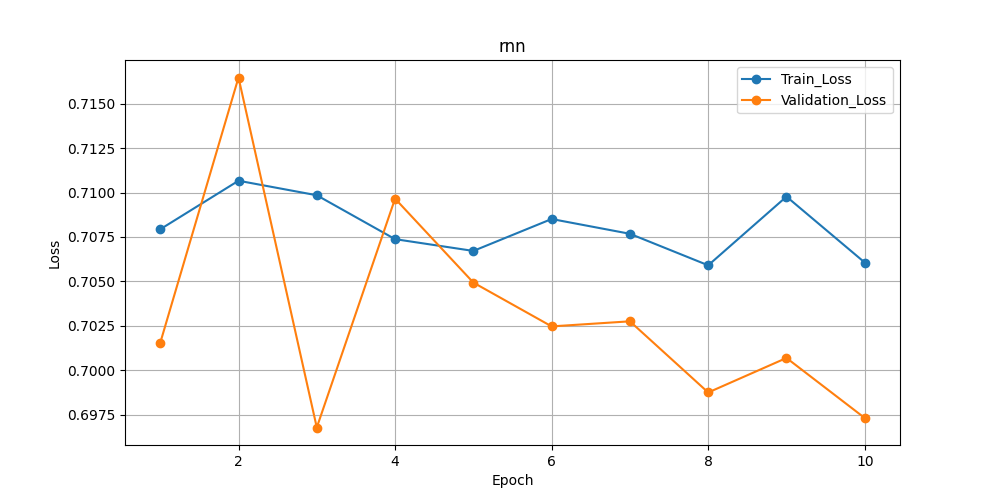
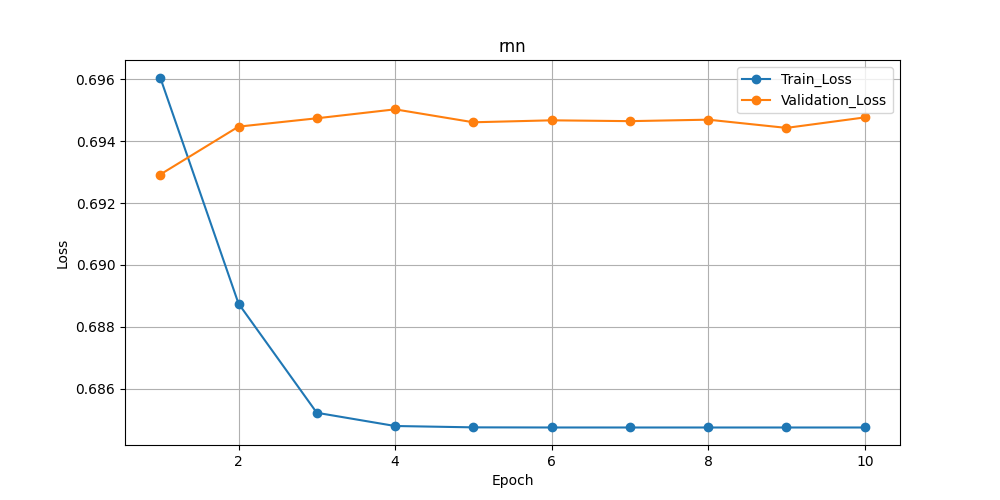
why don't train

diff --git a/2024-03-22/data.py b/2024-03-22/data.py
@@ -1,12 +1,10 @@
 import os
-import nltk
 import torch
 import pandas as pd
 import numpy as np
 
-from tqdm import tqdm
 from collections import Counter
-from nltk.tokenize import word_tokenize
+from torchtext.data.utils import get_tokenizer
 from sklearn.model_selection import train_test_split
 from torch.utils.data import Dataset
 
@@ -14,11 +12,12 @@ class IMDBDataset(Dataset):
     def __init__(self, root, threshold=3, max_len=500, mode='train'):
         self.root = os.path.join(root, "IMDBDataset.csv")
         self.mode = mode
-        self.df = self._load_data()
+        self.df = pd.read_csv(self.root)
         
         text_data, label_data = self._preprocess_data()
         text_data = self._tokenize(text_data)
         
+        self.train_set = self._tokenize(self.train_set)
         self.vocab = self._build_vocab(threshold)
         self.index_to_vocab = {v: k for k, v in self.vocab.items()}
         
@@ -33,10 +32,6 @@ class IMDBDataset(Dataset):
         text = torch.tensor(self.text_data[idx], dtype=torch.long)
         label = self.label_data[idx]
         return text, label
-
-    def _load_data(self):
-        nltk.download('punkt')
-        return pd.read_csv(self.root)
     
     def _preprocess_data(self):
         self.df['sentiment'] = self.df['sentiment'].replace(['positive', 'negative'], [1, 0])
@@ -45,9 +40,9 @@ class IMDBDataset(Dataset):
         X_train, X_test, y_train, y_test = train_test_split(texts, labels, test_size=0.5, 
                                                     random_state=0, stratify=labels)
         
+        self.train_set = X_train
         X_train, X_val, y_train, y_val = train_test_split(X_train, y_train, test_size=0.2,
                                                         random_state=0, stratify=y_train)
-        self.train_texts = X_train
 
         if self.mode == 'train':
             return X_train, y_train
@@ -60,8 +55,9 @@ class IMDBDataset(Dataset):
         
     def _tokenize(self, sents):
         tokenized_sents = []
-        for sent in tqdm(sents):
-            tokenized_sent = word_tokenize(sent)
+        self.tokenizer = get_tokenizer("basic_english")
+        for sent in sents:
+            tokenized_sent = self.tokenizer(sent)
             tokenized_sent = [word.lower() for word in tokenized_sent]
             tokenized_sents.append(tokenized_sent)
         
@@ -69,7 +65,7 @@ class IMDBDataset(Dataset):
 
     def _build_vocab(self, threshold):
         word_list = []
-        for sent in self.train_texts:
+        for sent in self.train_set:
             for word in sent:
                 word_list.append(word)
         word_count = Counter(word_list)
@@ -115,6 +111,7 @@ class IMDBDataset(Dataset):
 if __name__ == '__main__':
     data_path = '../../datasets/'
     train_dataset = IMDBDataset(data_path, mode='train')
-    text, label = train_dataset[10]
+    text, label = train_dataset[0]
+    print(f"vocab length: {len(train_dataset.vocab)}")
     print(f"text shape: {text.shape}")
     

diff --git a/2024-03-22/train.py b/2024-03-22/train.py
@@ -25,9 +25,11 @@ parser.add_argument("--is_ddp", type=bool, default=False)
 parser.add_argument("--is_amp", type=bool, default=False)
 
 # -- hyperparameter about model
-parser.add_argument("--model", type=str, default='rnn')
+parser.add_argument("--model", type=str, default='gru')
+parser.add_argument("--hidden_size", type=int, default=128)
+parser.add_argument("--embed_size", type=int, default=100)
 parser.add_argument("--n_layers", type=int, default=1)
-parser.add_argument("--dropout", type=float, default=0)
+parser.add_argument("--dropout", type=float, default=0.0)
 parser.add_argument("--bidirectional", type=bool, default=False)
 
 # -- hyperparameter about train
@@ -35,8 +37,8 @@ parser.add_argument("--optimizer", type=str, default='Adam')
 parser.add_argument("--lr_scheduler", type=str, default='Step')
 parser.add_argument("--step_size", type=float, default=1.0)
 parser.add_argument("--gamma", type=float, default=0.1)
-parser.add_argument("--batch_size", type=int, default=64)
-parser.add_argument("--learning_rate", type=float, default=1e-4)
+parser.add_argument("--batch_size", type=int, default=32)
+parser.add_argument("--learning_rate", type=float, default=1e-3)
 parser.add_argument("--epoch", type=int, default=10)
 
 def plot_loss(train_losses, val_losses):
@@ -94,10 +96,10 @@ def main():
                                           shuffle=False, num_workers=4, pin_memory=True)
 
     # define the model instance
-    net = SentenceClassifier(vocab_size, hidden_size=64, embed_size=128, n_layers=args.n_layers, 
+    net = SentenceClassifier(vocab_size, hidden_size=args.hidden_size, embed_size=args.embed_size, n_layers=args.n_layers, 
                              dropout=args.dropout, bidirectional=args.bidirectional, model_type=args.model).to(device)
     if args.is_ddp:
-        net = DistributedDataParallel(net, find_unused_parameters=True)
+        net = DistributedDataParallel(net)
     
     # define the CrossEntropyLoss
     criterion = CrossEntropyLoss()
@@ -214,5 +216,3 @@ if __name__ == "__main__":
 
     os.makedirs("result", exist_ok=True)
     main()
-
-

diff --git a/2024-03-22/net.py b/2024-03-22/net.py
@@ -43,7 +43,7 @@ class SentenceClassifier(nn.Module):
         return logits
 
 if __name__ == "__main__":
-    src_vocab_size = 46159
+    src_vocab_size = 40710
     
     net = SentenceClassifier(src_vocab_size, hidden_size=64, embed_size=128, n_layers=2, model_type='rnn')
     random_input = torch.randint(low=0, high=src_vocab_size, size=(64, 500), dtype=torch.long)
